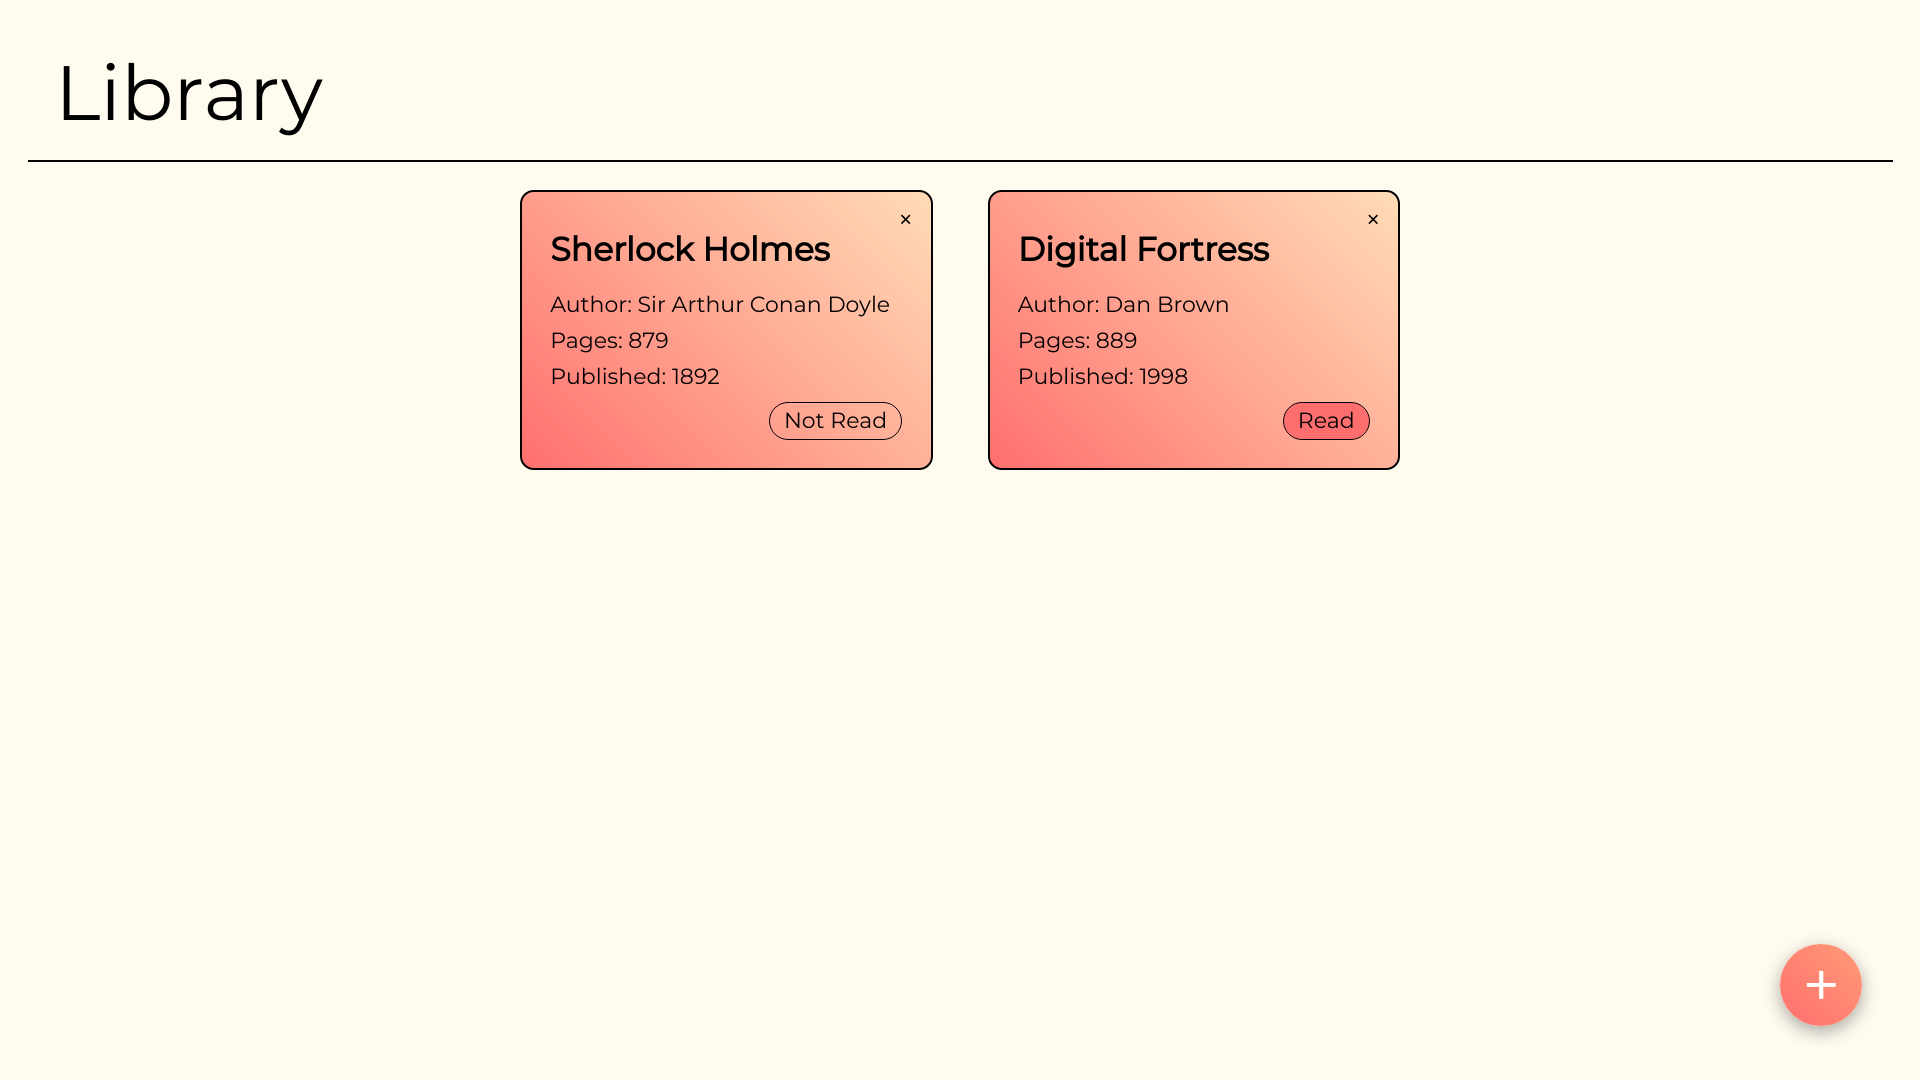
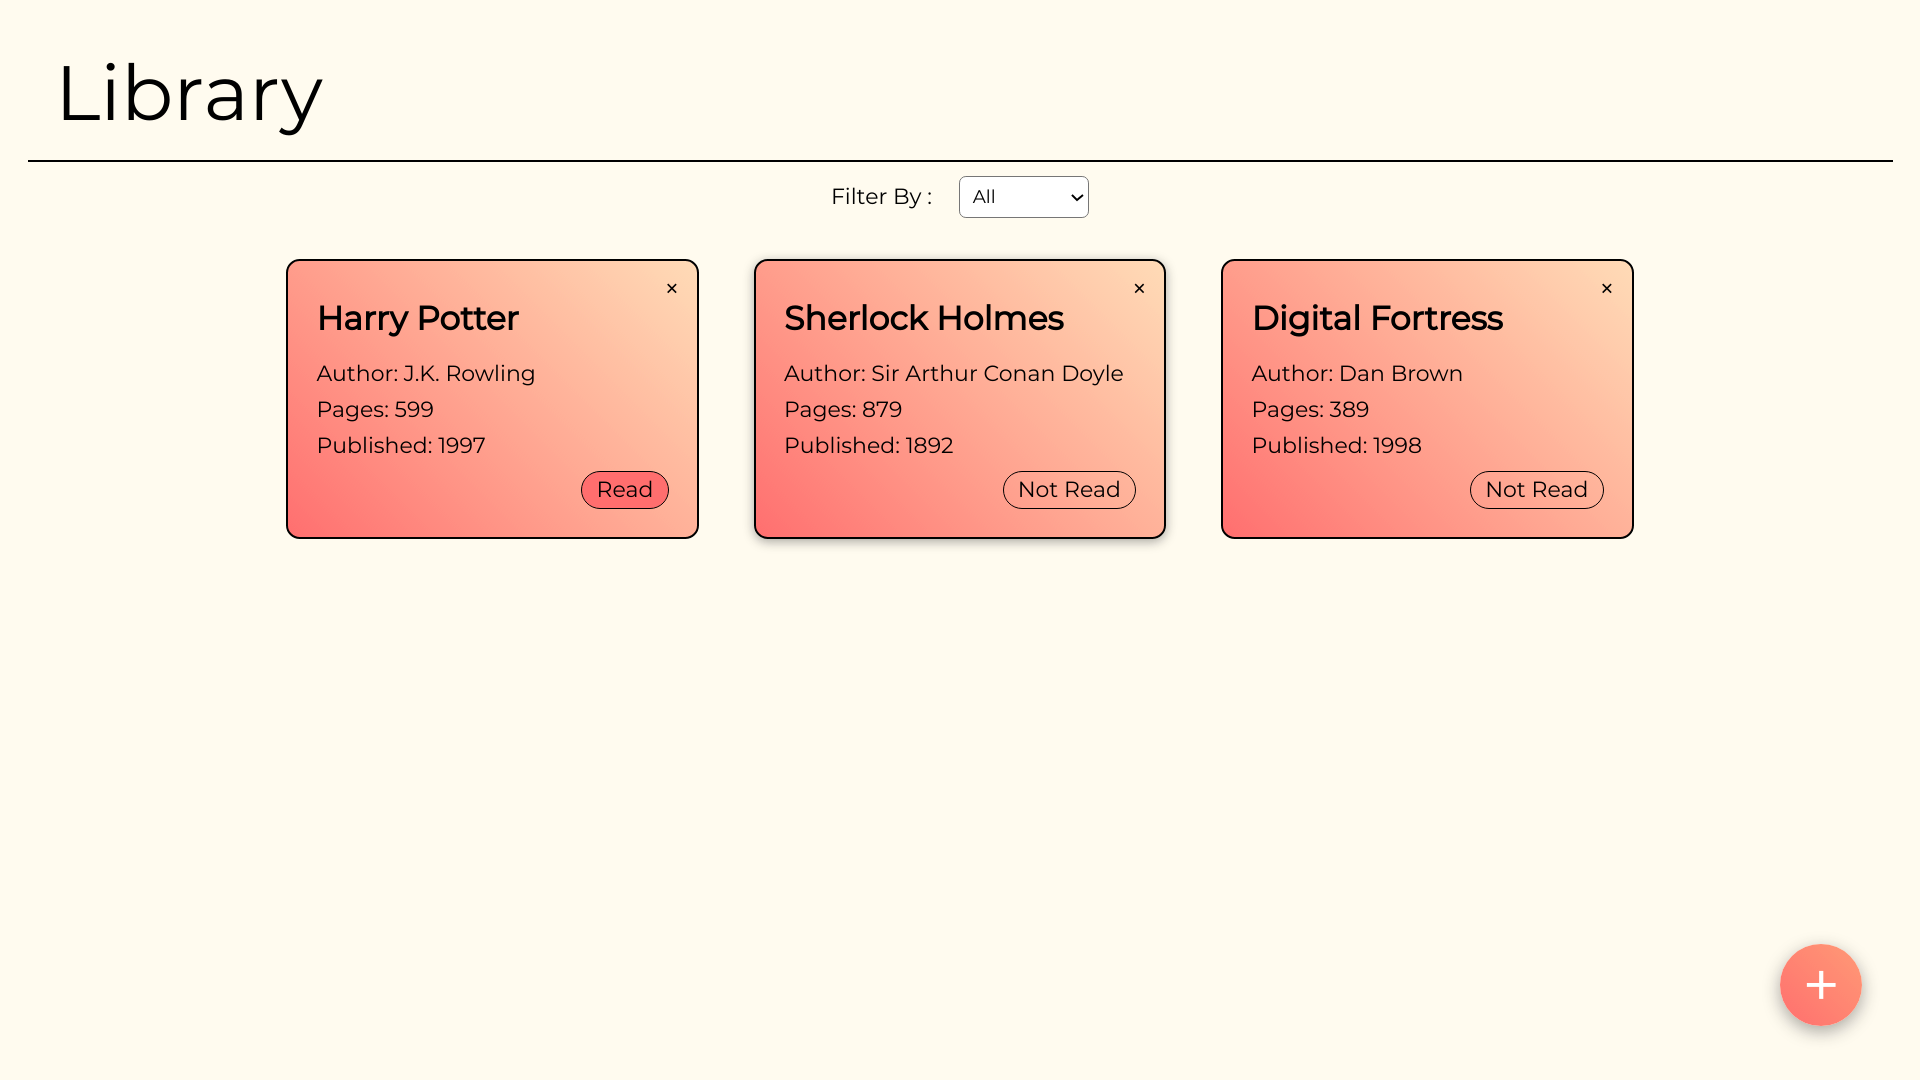
Updated README.md

Changed region(s): [[0.125, 0.1528, 0.875, 0.5194]]

diff --git a/README.md b/README.md
@@ -6,4 +6,4 @@ Library system implemented using `html`, `css` and `javascript`. The project has
 
 ![add book modal](/images/modal.png)
 
-As for the project, it's a library system where the books are displayed as cards and the user can add new books, remove existing ones and toggle their read status. Adding a book is done through a modal. `localStorage` api has also been implemented in order to provide persistence.
+As for the project, it's a library system where the books are displayed as cards and the user can add new books, remove existing ones, toggle their read status and filter books based on their read status. Adding a book is done through a modal. `localStorage` api has been implemented in order to provide persistence.
